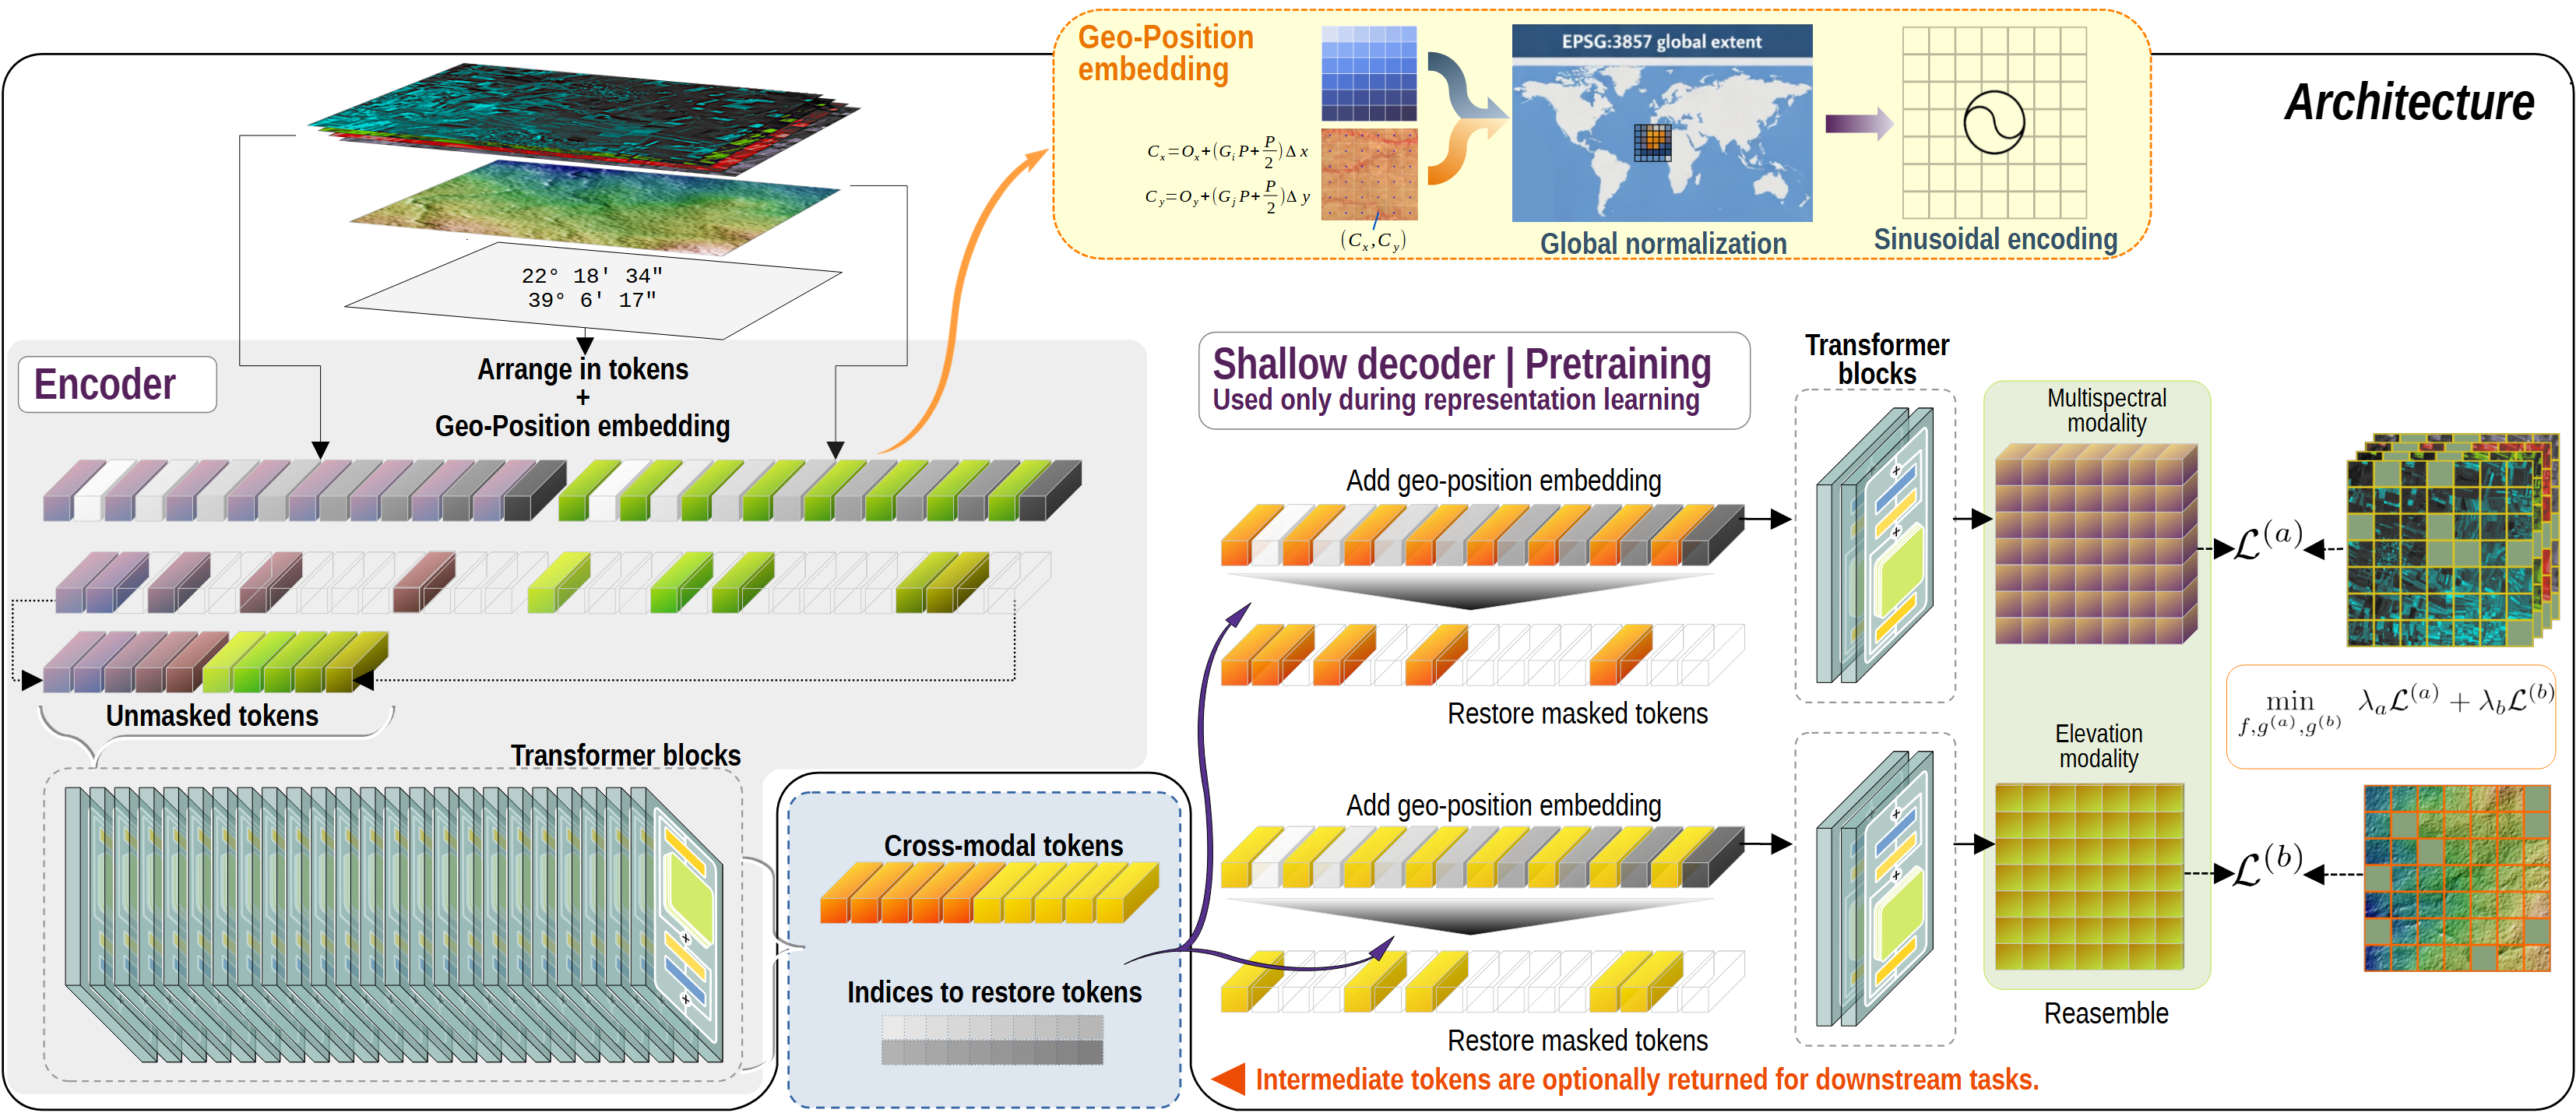
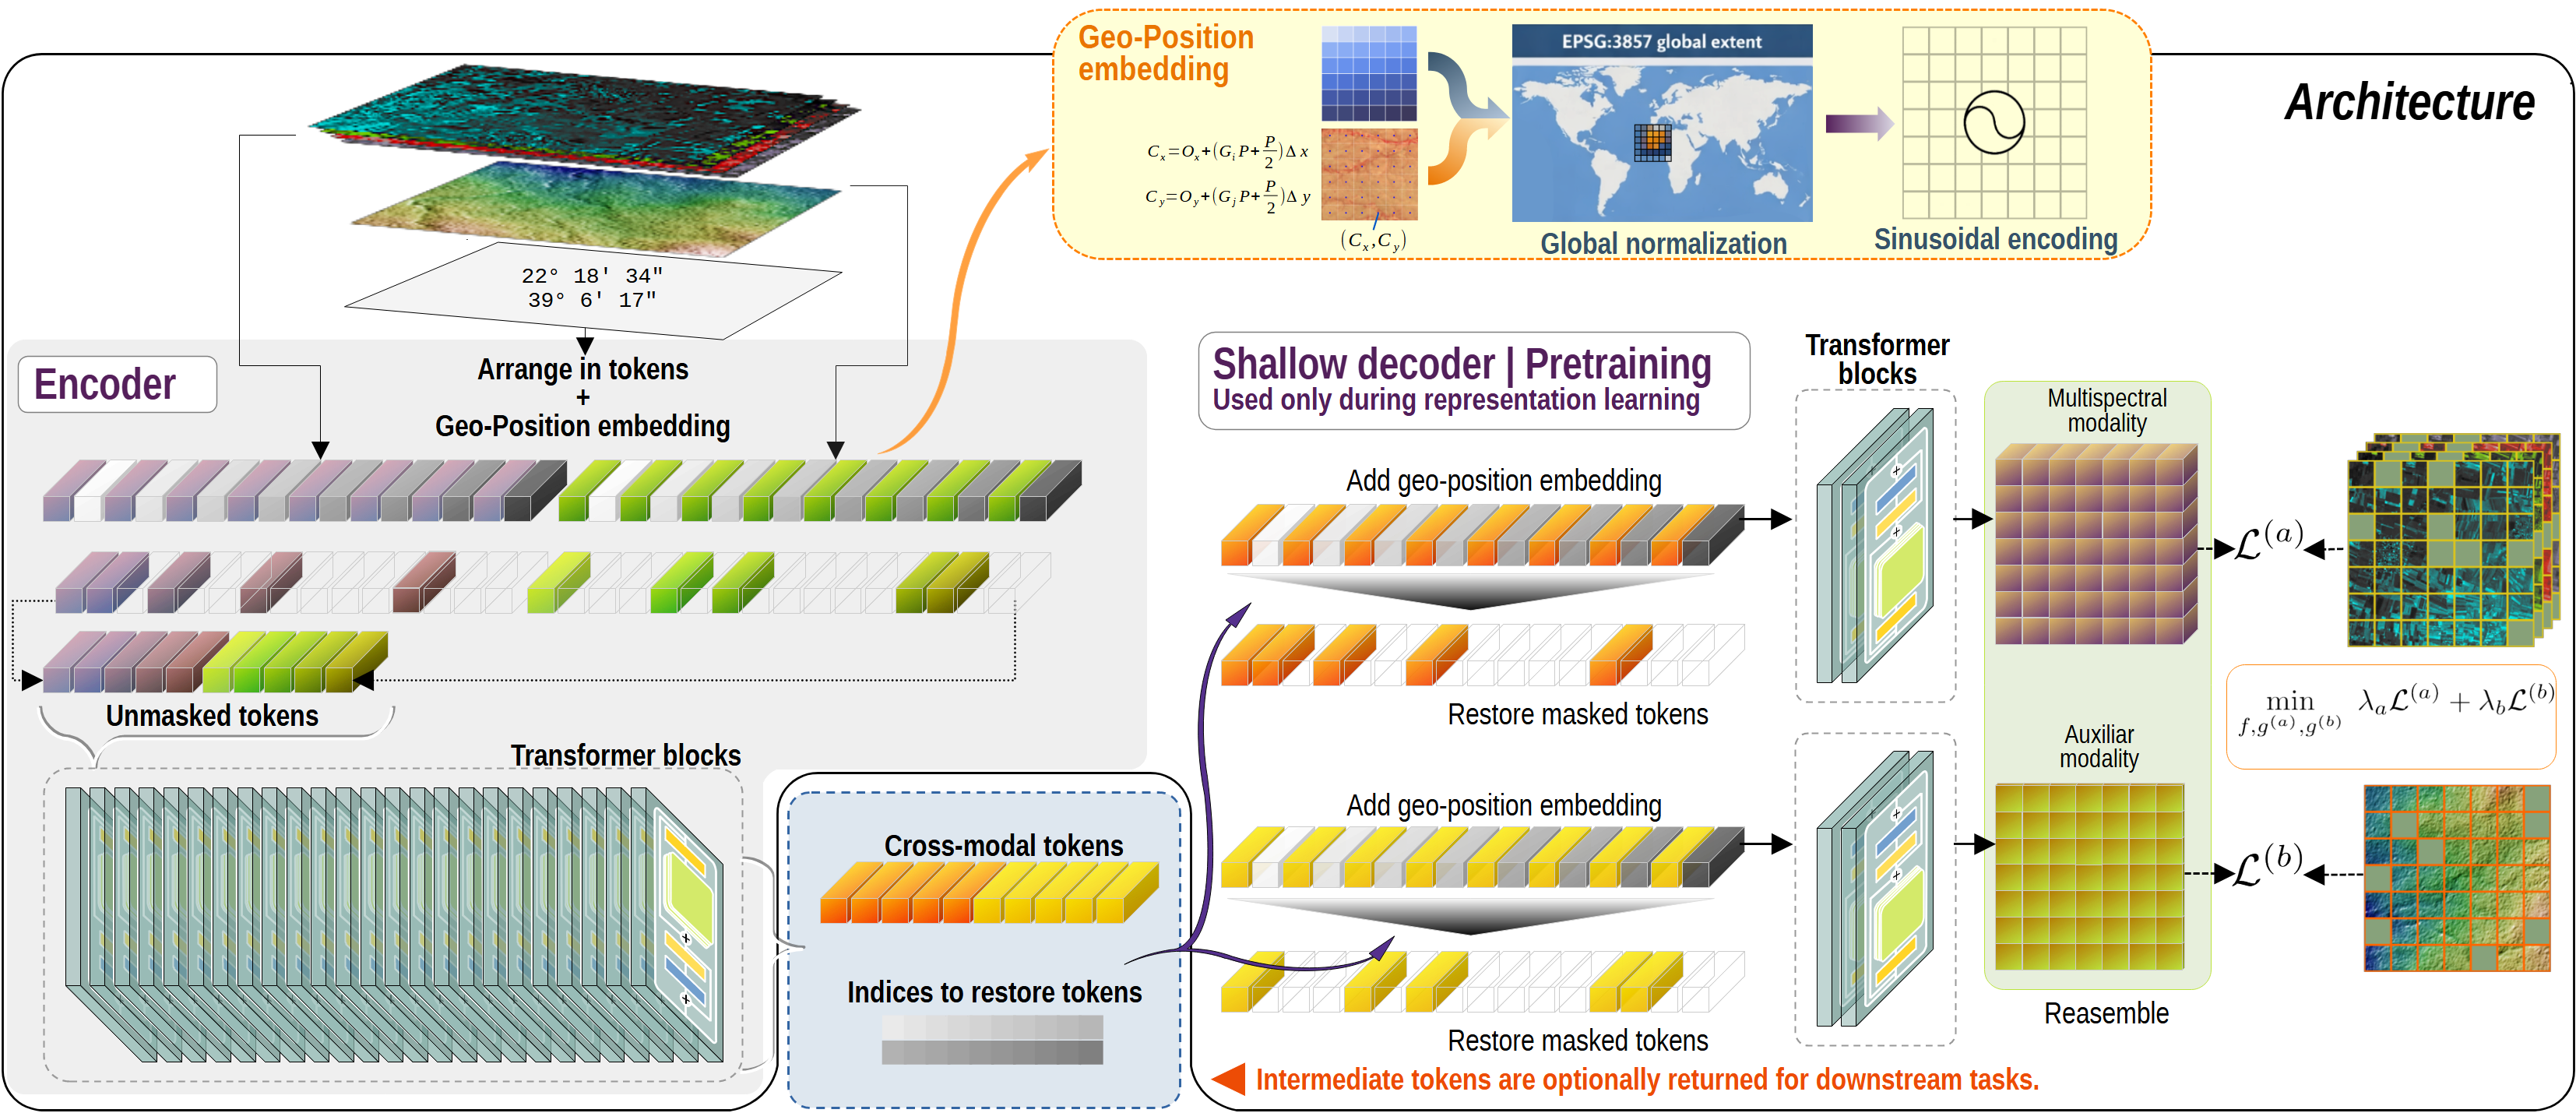
Updated FLORO page

diff --git a/floro.md b/floro.md
@@ -81,7 +81,17 @@ FLORO is pretrained on a heterogeneous collection of remote sensing observations
 - **Terrain and elevation products**, including global and local digital elevation or terrain-derived data.
 - **UAV RGB and multispectral products**, including very high-resolution orthomosaics, digital surface models, and vegetation-structure information.
 
-The objective is not only to increase the number of pretraining samples, but to increase the diversity of sensing conditions encountered during representation learning.
+![Pretraining data](assets/images/pretraining_data.png)
+
+> The objective is not only to increase the number of pretraining samples, but to increase the diversity of sensing conditions encountered during representation learning.
+
+---
+
+## 🔨 **Pretraining regime**
+
+FLORO is pretrained on approximately 80K remote sensing image samples spanning satellite, airborne, UAV, optical, SAR, and terrain-derived data sources. The model supports multispectral optical data, Sentinel-1 SAR backscatter, elevation products, UAV-derived structural information, and high-resolution imagery. FLORO learns by reconstructing masked content from partially observed multimodal inputs, encouraging the encoder to capture both spectral and spatial structure. Availability and validity channels allow the model to distinguish between observed, missing, and invalid data, supporting transfer across datasets with different sensor configurations.
+
+![Pretraining data](assets/images/pretraining_regime.png)
 
 ---
 